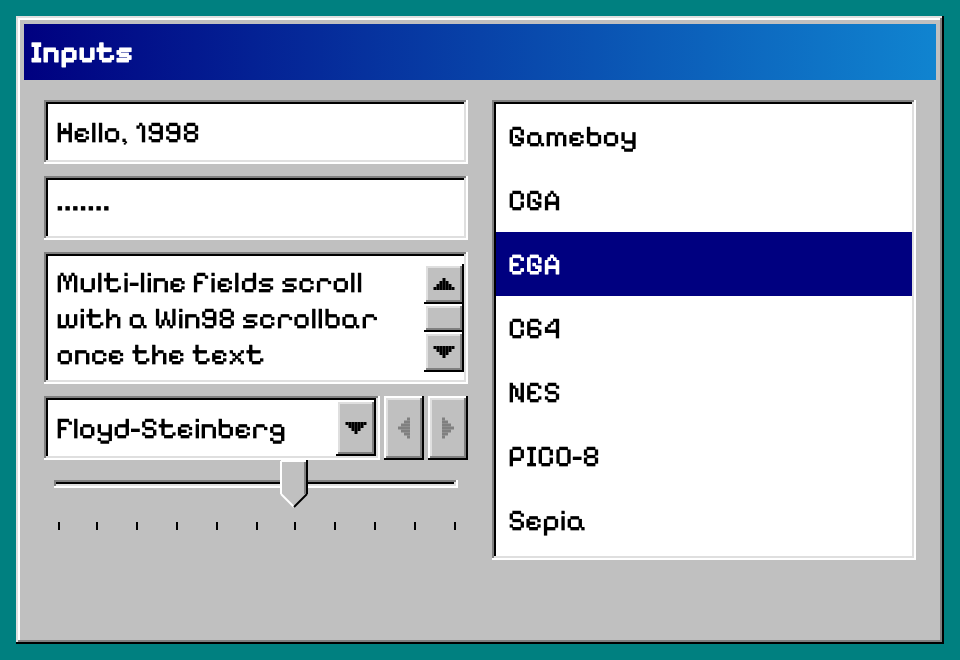
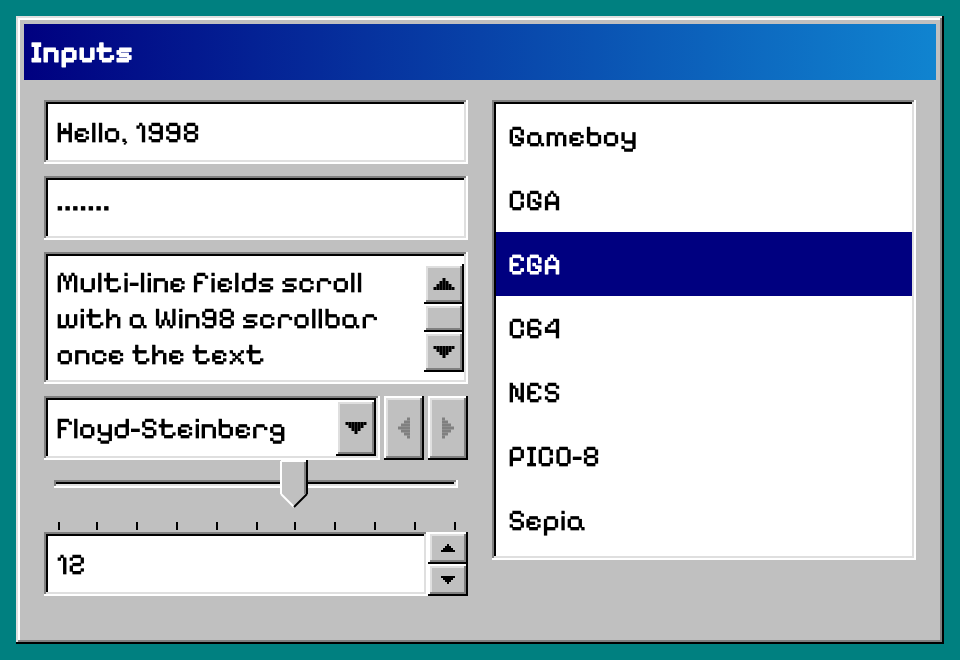
Docs, gallery and screenshots for the new widgets
README covers Win98WindowStack, Win98DesktopIcon, Win98SpinBox,
horizontal scrolling and list keyboard navigation, with a new desktop
screenshot; CHANGELOG and pubspec list them. Desktop icon cells widen
to 92 px so two-word labels wrap between words.

Changed region(s): [[0.0312, 0.7879, 0.5, 0.9091]]

diff --git a/example/lib/main.dart b/example/lib/main.dart
@@ -34,6 +34,8 @@ class _GalleryState extends State<Gallery> {
   String _dropdown = 'floyd_steinberg';
   String? _listSelection = 'Gameboy';
   String? _file = 'win';
+  int _copies = 1;
+  String? _icon;
   Set<String> _expanded = {'c'};
   String? _node = 'win';
   int _sortColumn = 0;
@@ -133,6 +135,7 @@ class _GalleryState extends State<Gallery> {
                       Win98Tab(label: 'Lists', builder: (_) => _lists()),
                       Win98Tab(label: 'Explorer', builder: (_) => _explorer()),
                       Win98Tab(label: 'Dialogs', builder: (_) => _dialogs()),
+                      Win98Tab(label: 'Desktop', builder: (_) => _desktop()),
                     ],
                   ),
                 ),
@@ -255,6 +258,36 @@ class _GalleryState extends State<Gallery> {
         ),
         const SizedBox(height: 8),
         Win98Slider(value: _slider, divisions: 10, onChanged: (v) => setState(() => _slider = v)),
+        Row(
+          children: [
+            const Text('Copies: '),
+            SizedBox(
+              width: 100,
+              child: Win98SpinBox(
+                value: _copies,
+                min: 1,
+                max: 99,
+                onChanged: (v) => setState(() => _copies = v),
+              ),
+            ),
+          ],
+        ),
+        const SizedBox(height: 8),
+        SizedBox(
+          height: 60,
+          child: Win98ScrollView(
+            scrollDirection: Axis.horizontal,
+            child: Row(
+              children: [
+                for (var i = 0; i < 16; i++)
+                  Padding(
+                    padding: const EdgeInsets.all(4),
+                    child: Win98Button(onPressed: () {}, child: Text('Item $i')),
+                  ),
+              ],
+            ),
+          ),
+        ),
         Win98ProgressBar(value: _slider),
         const SizedBox(height: 8),
         Win98Dropdown<String>(
@@ -308,6 +341,54 @@ class _GalleryState extends State<Gallery> {
     ),
   );
 
+  // Desktop icons and windows that drag by their title bars.
+  Widget _desktop() => Win98Desktop(
+    child: Stack(
+      children: [
+        Win98WindowStack(
+          windows: [
+            Win98StackWindow(
+              id: 'notepad',
+              position: const Offset(90, 10),
+              size: const Size(220, 140),
+              child: Win98Window(
+                title: 'Notepad',
+                expand: true,
+                child: const Text('Drag me by the title bar.'),
+              ),
+            ),
+            Win98StackWindow(
+              id: 'paint',
+              position: const Offset(140, 70),
+              size: const Size(220, 140),
+              child: Win98Window(
+                title: 'Paint',
+                expand: true,
+                child: const Text('Tap a window to bring it to the front.'),
+              ),
+            ),
+          ],
+        ),
+        Padding(
+          padding: const EdgeInsets.all(4),
+          child: Wrap(
+            direction: Axis.vertical,
+            children: [
+              for (final name in ['My Computer', 'Recycle Bin'])
+                Win98DesktopIcon(
+                  icon: const _PixelFolder(),
+                  label: name,
+                  selected: _icon == name,
+                  onSelected: () => setState(() => _icon = name),
+                  onActivated: _about,
+                ),
+            ],
+          ),
+        ),
+      ],
+    ),
+  );
+
   Widget _dialogs() => Wrap(
     spacing: 6,
     runSpacing: 6,
@@ -339,4 +420,25 @@ class _GalleryState extends State<Gallery> {
       ),
     ],
   );
+}
+
+/// A 16×16 yellow folder drawn with PixelGlyph, shown at 2x.
+class _PixelFolder extends StatelessWidget {
+  const _PixelFolder();
+
+  @override
+  Widget build(BuildContext context) => const PixelGlyph([
+    '................',
+    '..#####.........',
+    '.#.....#........',
+    '#.......#######.',
+    '#..............#',
+    '#..............#',
+    '#..............#',
+    '#..............#',
+    '#..............#',
+    '#..............#',
+    '#..............#',
+    '.##############.',
+  ], color: Color(0xFFE8C840));
 }

diff --git a/test/readme_images_test.dart b/test/readme_images_test.dart
@@ -154,6 +154,7 @@ void main() {
                       onChanged: (_) {},
                     ),
                     Win98Slider(value: 0.6, divisions: 10, onChanged: (_) {}),
+                    Win98SpinBox(value: 12, onChanged: (_) {}),
                   ],
                 ),
               ),
@@ -262,6 +263,10 @@ void main() {
 
   testWidgets('explorer', (tester) async {
     await shot(tester, 'explorer', const Size(560, 300), const _ExplorerScene());
+  });
+
+  testWidgets('desktop', (tester) async {
+    await shot(tester, 'desktop', const Size(560, 360), const _DesktopScene());
   });
 
   testWidgets('theming', (tester) async {
@@ -516,4 +521,90 @@ class _ThemedWindow extends StatelessWidget {
       ),
     );
   }
+}
+
+class _DesktopScene extends StatelessWidget {
+  const _DesktopScene();
+
+  @override
+  Widget build(BuildContext context) {
+    return Column(
+      children: [
+        Expanded(
+          child: Stack(
+            children: [
+              Win98WindowStack(
+                windows: [
+                  Win98StackWindow(
+                    id: 'notepad',
+                    position: const Offset(100, 16),
+                    size: const Size(260, 170),
+                    child: Win98Window(
+                      title: 'readme.txt - Notepad',
+                      expand: true,
+                      onMinimize: () {},
+                      onClose: () {},
+                      child: const Text('Windows drag by their title bars.'),
+                    ),
+                  ),
+                  Win98StackWindow(
+                    id: 'paint',
+                    position: const Offset(200, 90),
+                    size: const Size(300, 190),
+                    child: Win98Window(
+                      title: 'untitled - Paint',
+                      expand: true,
+                      onMinimize: () {},
+                      onClose: () {},
+                      child: const Text('Tapping one brings it to the front.'),
+                    ),
+                  ),
+                ],
+              ),
+              Padding(
+                padding: const EdgeInsets.all(6),
+                child: Wrap(
+                  direction: Axis.vertical,
+                  spacing: 8,
+                  children: const [
+                    Win98DesktopIcon(icon: _Folder(), label: 'My Computer', selected: true),
+                    Win98DesktopIcon(icon: _Folder(), label: 'Inbox'),
+                    Win98DesktopIcon(icon: _Folder(), label: 'Recycle Bin'),
+                  ],
+                ),
+              ),
+            ],
+          ),
+        ),
+        Win98Taskbar(
+          startMenu: const [],
+          tasks: [
+            Win98Task(label: 'readme.txt - Notepad', onPressed: () {}),
+            Win98Task(label: 'untitled - Paint', active: true, onPressed: () {}),
+          ],
+          tray: const Text('12:00'),
+        ),
+      ],
+    );
+  }
+}
+
+class _Folder extends StatelessWidget {
+  const _Folder();
+
+  @override
+  Widget build(BuildContext context) => const PixelGlyph([
+    '..#####.........',
+    '.#######........',
+    '################',
+    '################',
+    '################',
+    '################',
+    '################',
+    '################',
+    '################',
+    '################',
+    '################',
+    '################',
+  ], color: Color(0xFFE8C840));
 }

diff --git a/example/test/gallery_test.dart b/example/test/gallery_test.dart
@@ -11,7 +11,7 @@ void main() {
       tester.view.devicePixelRatio = 1;
       addTearDown(tester.view.reset);
       await tester.pumpWidget(const GalleryApp());
-      for (final tab in ['Lists', 'Explorer', 'Dialogs', 'Controls']) {
+      for (final tab in ['Lists', 'Explorer', 'Dialogs', 'Desktop', 'Controls']) {
         await tester.tap(find.text(tab));
         await tester.pump();
         expect(tester.takeException(), isNull, reason: '$tab page');

diff --git a/lib/src/desktop_icon.dart b/lib/src/desktop_icon.dart
@@ -16,7 +16,7 @@ class Win98DesktopIcon extends StatelessWidget {
     this.selected = false,
     this.onSelected,
     this.onActivated,
-    this.width = 76,
+    this.width = 92,
   });
 
   /// The picture, usually 32×32: an image or a `PixelGlyph`.

diff --git a/README.md b/README.md
@@ -3,9 +3,9 @@
 [![CI](https://github.com/allmonty/flutter-win98-ui/actions/workflows/ci.yml/badge.svg)](https://github.com/allmonty/flutter-win98-ui/actions/workflows/ci.yml)
 [![pub package](https://img.shields.io/pub/v/win98_ui.svg)](https://pub.dev/packages/win98_ui)
 
-A Windows 98 look-and-feel widget kit for Flutter: beveled windows, menus,
-toolbars, tabs, lists, trees, dialogs and a taskbar, drawn pixel by pixel
-the way Windows 98 drew them.
+A Windows 98 look-and-feel widget kit for Flutter: beveled windows you can
+drag, menus, toolbars, tabs, lists, trees, dialogs, desktop icons and a
+taskbar, drawn pixel by pixel the way Windows 98 drew them.
 
 It depends only on `package:flutter/widgets.dart`, with no Material or
 Cupertino, so it works under a `WidgetsApp`, `MaterialApp` or
@@ -58,8 +58,27 @@ shows every widget.
 | `Win98ContextMenu`, `Win98MenuPanel` | Opens a menu at the pointer on right-click or long press; the panel works in any popup |
 | `Win98Toolbar`, `Win98ToolButton`, `Win98ToolbarDivider` | Flat tool buttons that raise on hover and stay sunken when `selected` |
 | `Win98Taskbar`, `Win98Task` | Start button and menu, task buttons and a tray |
+| `Win98WindowStack`, `Win98StackWindow` | Overlapping windows dragged by their title bars; tapping one brings it to the front with the active title bar, and `bringToFront` does it from a taskbar |
+| `Win98DesktopIcon` | Icon over a white label; tap selects, double-tap opens |
 | `Win98StatusBar`, `Win98StatusPane` | Sunken panes |
 | `Win98Tooltip` | Yellow tooltip on hover or long press |
+
+![Desktop icons, two overlapping windows (the front one active) and a taskbar](https://raw.githubusercontent.com/allmonty/flutter-win98-ui/main/doc/screenshots/desktop.png)
+
+```dart
+Win98Desktop(
+  child: Win98WindowStack(
+    windows: [
+      Win98StackWindow(
+        id: 'notepad',
+        position: const Offset(40, 20),
+        size: const Size(260, 170),
+        child: Win98Window(title: 'Notepad', expand: true, child: const Text('Hi')),
+      ),
+    ],
+  ),
+)
+```
 
 ### Controls
 
@@ -75,14 +94,15 @@ shows every widget.
 
 ### Input
 
-![Text fields, a password field, a multi-line field, a drop-down, a slider and a list box](https://raw.githubusercontent.com/allmonty/flutter-win98-ui/main/doc/screenshots/inputs.png)
+![Text fields, a password field, a multi-line field, a drop-down, a slider, a spin box and a list box](https://raw.githubusercontent.com/allmonty/flutter-win98-ui/main/doc/screenshots/inputs.png)
 
 | Widget | Notes |
 |---|---|
 | `Win98TextField` | Sunken `EditableText`: password (`obscureText`), read-only, disabled, multi-line with a scrollbar, input formatters |
-| `Win98Dropdown<T>` | Combo box with a pop-up list, plus Previous/Next buttons to step through options without opening it |
+| `Win98Dropdown<T>` | Combo box with a pop-up list, plus Previous/Next buttons to step through options without opening it; Up/Down step while focused, Enter or Alt+Down opens |
+| `Win98SpinBox` | Whole-number field with ▲/▼ buttons; Up/Down keys, typed values clamped to `min`..`max` |
 | `Win98Slider` | Trackbar with ticks; drag, tap-to-jump, arrow keys |
-| `Win98ListBox<T>` | Selection highlight, double-tap to activate |
+| `Win98ListBox<T>` | Selection highlight, double-tap or Enter to activate, arrow keys move the selection |
 
 ### Lists and trees
 
@@ -90,9 +110,9 @@ shows every widget.
 
 | Widget | Notes |
 |---|---|
-| `Win98TreeView<T>`, `Win98TreeNode<T>` | Explorer's folder tree: dotted lines and `[+]`/`[-]` boxes; the parent controls expansion |
+| `Win98TreeView<T>`, `Win98TreeNode<T>` | Explorer's folder tree: dotted lines and `[+]`/`[-]` boxes; the parent controls expansion; Right/Left expand, collapse and step in or out |
 | `Win98ListView<T>`, `Win98ListColumn`, `Win98ListRow<T>` | Explorer's Details view: column headers with a sort arrow, fixed or flex widths, right-aligned numeric columns |
-| `Win98ScrollView`, `Win98Scrollbar` | Arrow buttons, dithered track, draggable thumb |
+| `Win98ScrollView`, `Win98Scrollbar` | Arrow buttons, dithered track, draggable thumb; vertical or horizontal (`scrollDirection` / `axis`) |
 
 ### Dialogs
 
@@ -171,7 +191,9 @@ class StickyButton extends StatelessWidget {
 Controls expose semantics such as button, checked, selected, expanded and
 value. Buttons, tool buttons, checkboxes and radio buttons take keyboard
 focus, show the dotted focus rectangle, and activate with Enter or Space.
-Sliders and open menus respond to arrow keys.
+List boxes, list views, trees, drop-downs, spin boxes, sliders and open
+menus respond to arrow keys; lists take focus when tapped and scroll the
+selection into view.
 
 ## Compared to other options
 
@@ -180,12 +202,14 @@ Sliders and open menus respond to arrow keys.
   fields). It's a good fit if your app is already a `MaterialApp`.
 - **win98_ui** uses no Material at all and draws Windows 98's details
   (gradient title bars, etched disabled text, dithered scrollbars). It also
-  covers more of the desktop: tree and list views, a taskbar, tabs,
-  submenus and context menus, and the color dialog.
+  covers more of the desktop: draggable windows, desktop icons, a taskbar,
+  tree and list views, tabs, submenus and context menus, a spin box and the
+  color dialog.
 
-Not included yet: window dragging and resizing (MDI), column resizing in
-`Win98ListView`, keyboard navigation in drop-downs, lists and trees, and
-Alt/F10 to reach the menu bar from the keyboard.
+Not included yet: resizing windows by their edges, scrolling both ways at
+once (a 2D scroll view), column resizing in `Win98ListView`, three-state
+checkboxes, editable combo boxes, and Alt/F10 to reach the menu bar from
+the keyboard.
 
 ## Font
 

diff --git a/CHANGELOG.md b/CHANGELOG.md
@@ -8,12 +8,14 @@ First release on pub.dev.
   thin-raised, etched, outline), `PixelGlyph` / `Win98Glyphs`, `FocusRect`
   and `Win98PopupAnchor`.
 - Windows: `Win98Window` (title bar, menu bar, toolbar, status bar),
-  `Win98Desktop`, `Win98Taskbar` with a Start menu, dialogs, message boxes
-  and the color dialog.
+  `Win98WindowStack` (overlapping windows dragged by their title bars),
+  `Win98Desktop`, `Win98DesktopIcon`, `Win98Taskbar` with a Start menu,
+  dialogs, message boxes and the color dialog.
 - Menus: `Win98MenuBar` with cascading submenus and keyboard navigation,
   `Win98ContextMenu` on right-click or long press, and `Win98MenuPanel`.
 - Controls: buttons, tool buttons, checkboxes, radios, slider, drop-down,
-  text fields (password, read-only, disabled, multi-line), tooltips, tabs,
-  group boxes, progress and status bars.
-- Lists: `Win98ListBox`, `Win98ListView` (columns with sortable headers),
-  `Win98TreeView` and `Win98ScrollView` / `Win98Scrollbar`.
+  spin box, text fields (password, read-only, disabled, multi-line),
+  tooltips, tabs, group boxes, progress and status bars.
+- Lists: `Win98ListBox`, `Win98ListView` (columns with sortable headers) and
+  `Win98TreeView`, all keyboard-navigable, and `Win98ScrollView` /
+  `Win98Scrollbar`, vertical or horizontal.
